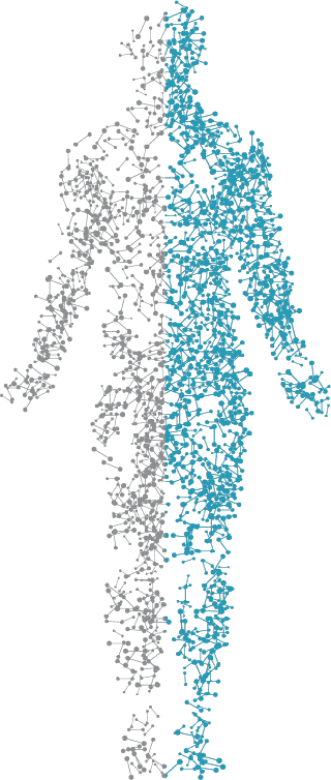
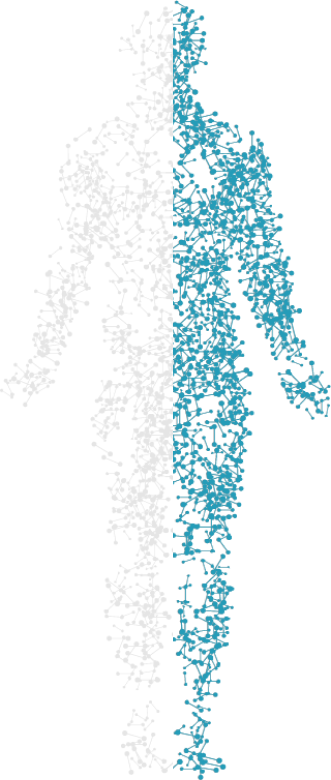
Test 0.1

Changed region(s): [[0.0, 0.0, 0.5438, 1.0]]

diff --git a/css/style.css b/css/style.css
@@ -20,8 +20,7 @@ body {
   height: 110vh;
   width: 100vw;
   background: #0f0c29;  
-  background: -webkit-linear-gradient(to right, #10101c, #201d43, #0f0c29); 
-  background: linear-gradient(to right, #10101c, #201d43, #0f0c29); 
+  background-image: linear-gradient(to left top, #c994da, #bc7ed0, #af67c7, #a250bd, #9436b3);
   display: flex;
   justify-content: center;
   align-items: center;
@@ -36,32 +35,33 @@ body {
 
 /*******************************Header******************************/
 header{
-  width: 10vw;
-  height: 100vh;
+  width: 100vw;
+  height: 10vh;
   display: flex;
-  flex-direction: column;
   align-items: center;
   justify-content:space-between;
   z-index: 1000;
   position: fixed;
   left: 0;
+  z-index: 11100;
 }
 .logo-header{
   padding-top: 20px;
+  margin-left: 30px;
   width: 100px;
   cursor: pointer;
 }
 .menu-header{
+  padding-top: 20px;
+  margin-right: 40px;
   width: 28px;
-  padding-bottom: 50vh;
   cursor: pointer;
 }
 
 /********************************Banner*******************************/
 .banner {
   background: #0f0c29; 
-  background: -webkit-linear-gradient(to right, #10101c, #201d43, #0f0c29); 
-  background: linear-gradient(to right, #10101c, #201d43, #0f0c29); 
+  background-image: linear-gradient(to left top, #c994da, #bc7ed0, #af67c7, #a250bd, #9436b3);
   width: 100%;
   height: 100vh;
   display: flex;
@@ -71,15 +71,17 @@ header{
   z-index: 11000;
 }
 .box-logo-banner{
-  width: 45vw;
+  width: 50vw;
   /* border: 3px solid black; */
-  margin-left: 10vw;
+  margin-left: 5vw;
+  margin-right: 5vw;
   display: flex;
   align-items: center;
   justify-content: center;
+  margin-bottom: -20vh;
 }
 .box-img-banner{
-  width: 45vw;
+  width: 50vw;
   /* border: 3px solid red; */
   display: flex;
   flex-direction: column;
@@ -102,14 +104,15 @@ header{
   position: relative;
 }
 .about-left{
-  width: 45vw;
+  width: 50vw;
   display: flex;
   flex-direction: column;
   justify-content: center;
   text-align: center;
   padding: 50px;
   color: #1096b2;
-  margin-left: 10vw;
+  margin-left: 5vw;
+  margin-right: 5vw;
 }
 .about-left h1{
   font-family: 'Montserrat', sans-serif;
@@ -126,7 +129,7 @@ header{
   padding-top: 60px;
 }
 .about-right{
-  width: 45vw;
+  width: 50vw;
   display: flex;
   justify-content: center;
   align-items: center;

diff --git a/js/gsap.js b/js/gsap.js
@@ -1,33 +1,9 @@
-//Header Responsive
-function myFunction(x) {
-    if (x.matches) { // If media query matches
-      x.addListener(myFunction) 
-      gsap.set('.header',{
-          duration: 0, y: '-55vh', opacity:0
-      })
-      gsap.to('.header',{
-          duration: 2, ease: "ease", opacity: 1, delay: 2.7,x: 0, y: 0,
-      })
-  
-    } else {
-      x.addListener(myFunction) 
-      gsap.set('.header',{
-          duration: 0, x: '-55vw', y: 0,
-      })
-      gsap.to('.header',{
-          duration: 5, ease: "ease", opacity: 1, delay: 0,x: 0, y: 0,
-      })
-  
-    }
-  }
-  
-var x = window.matchMedia("(max-width: 620px)")
-
-
-myFunction(x) // Call listener function at run time
-x.addListener(myFunction) 
-  
-  
+gsap.from('.header',{
+    y: '-25vh', opacity:0
+})
+gsap.to('.header',{
+    duration: 5, ease: "ease",x: 0, y: 0, opacity: 1
+})
   
 gsap.set('.human-banner',{
     duration: 0, x: 0, y: '-80vh', opacity: 0
